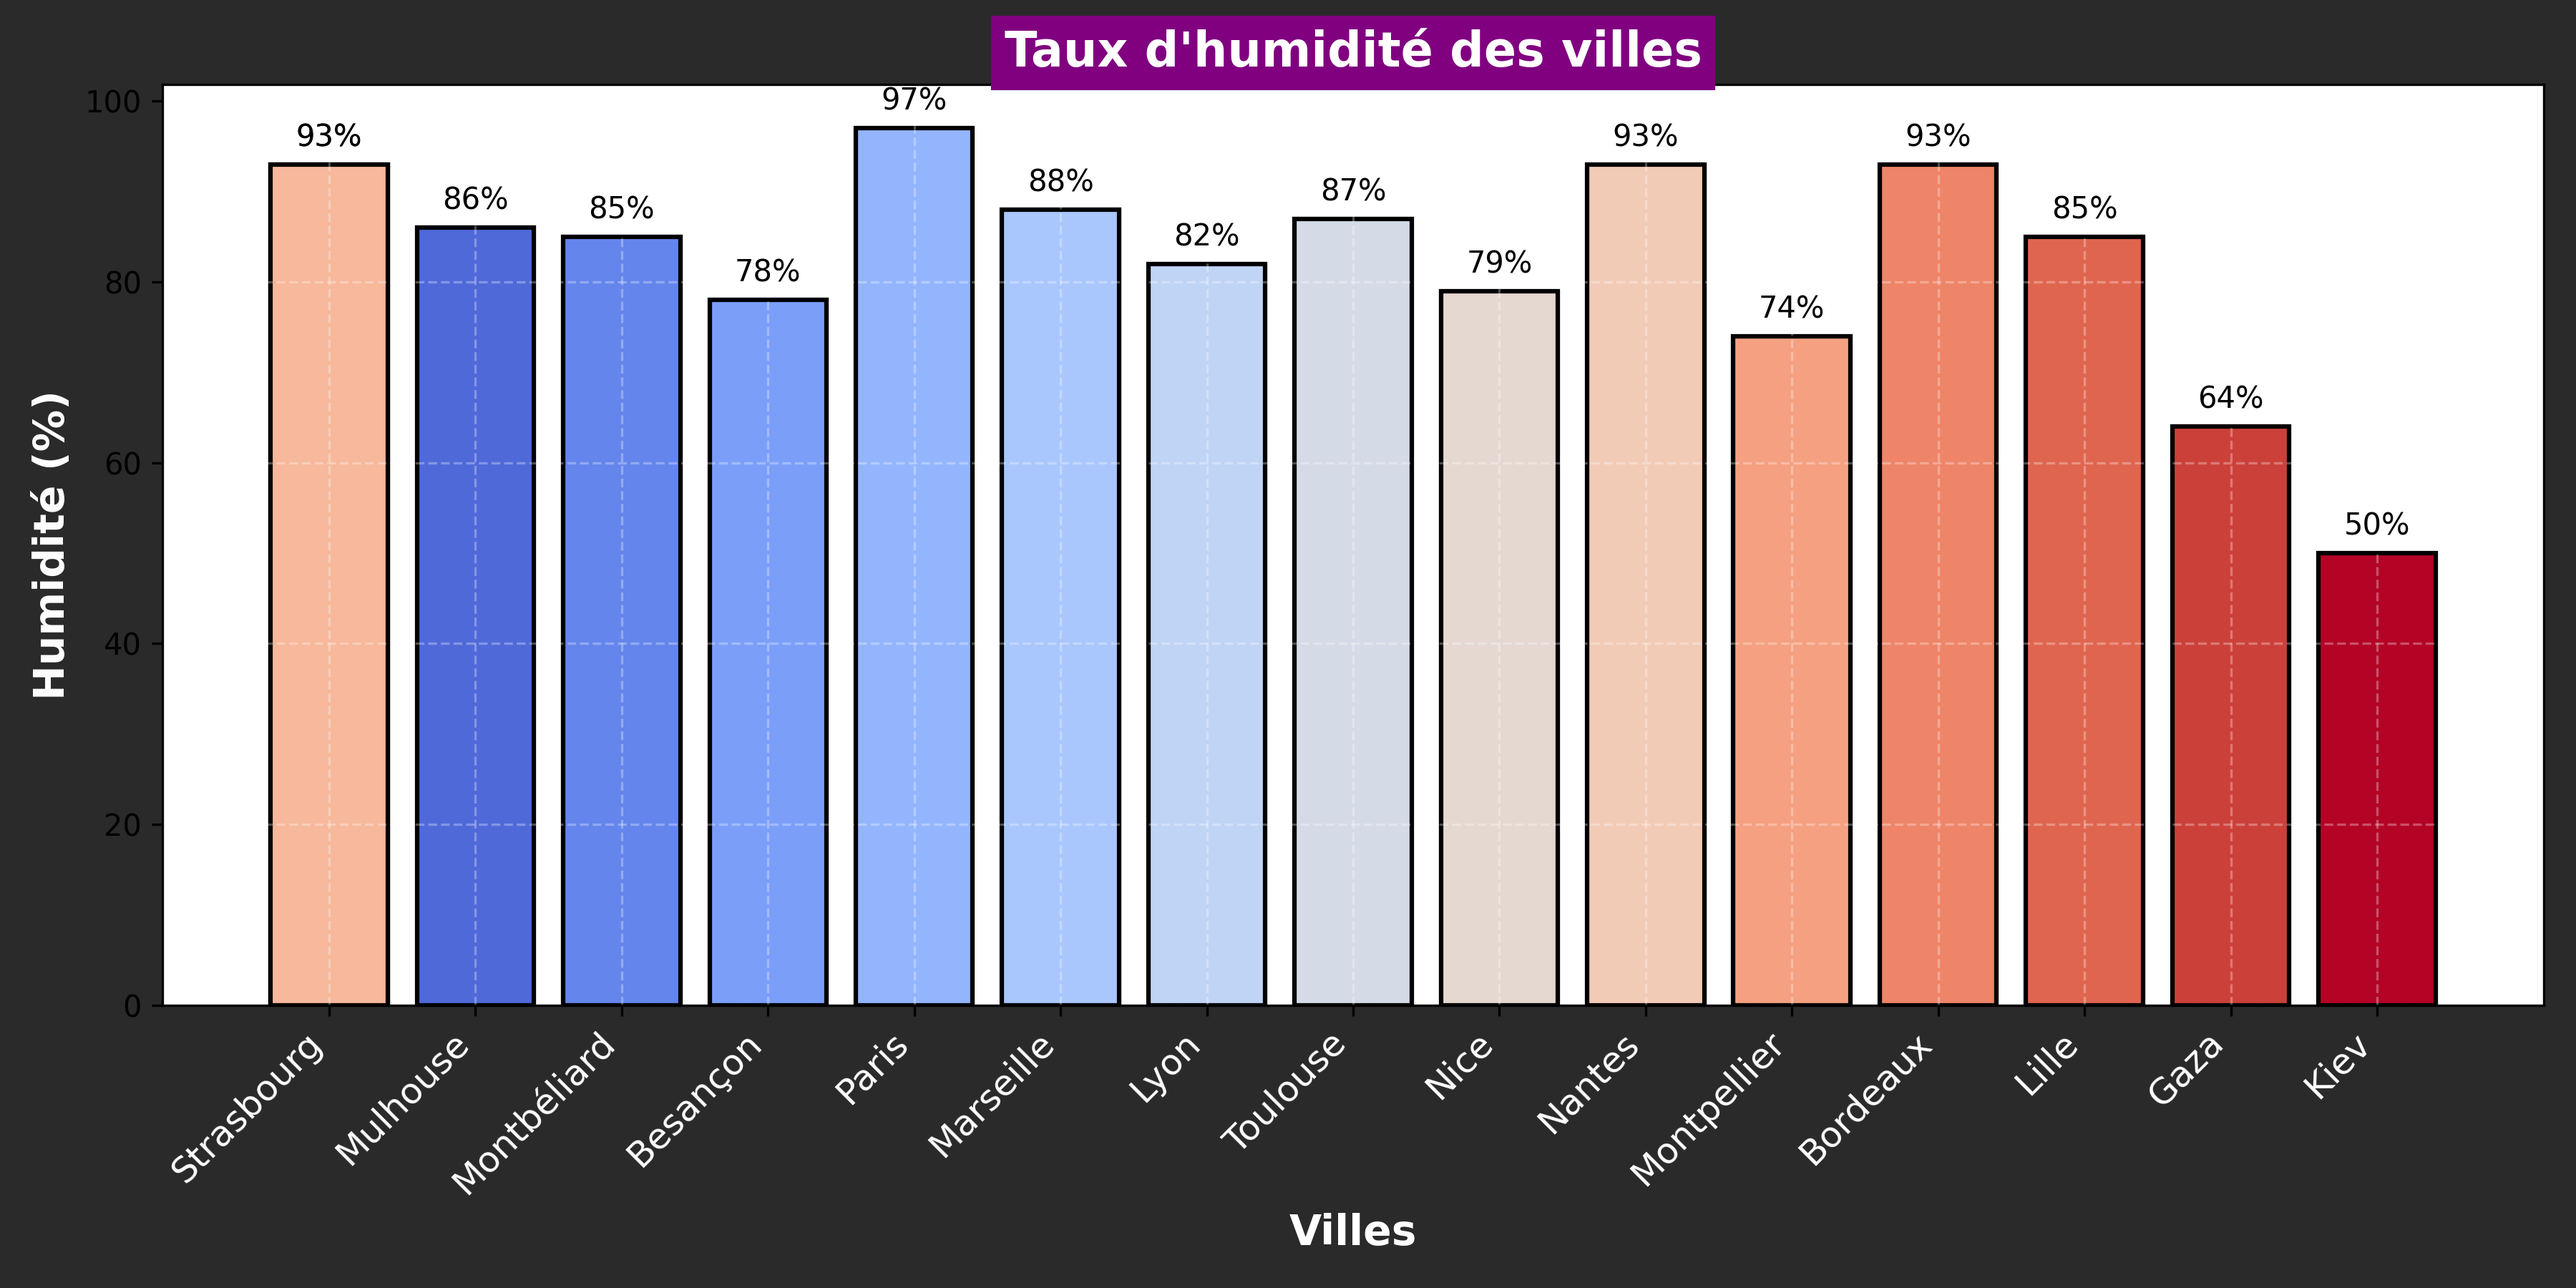
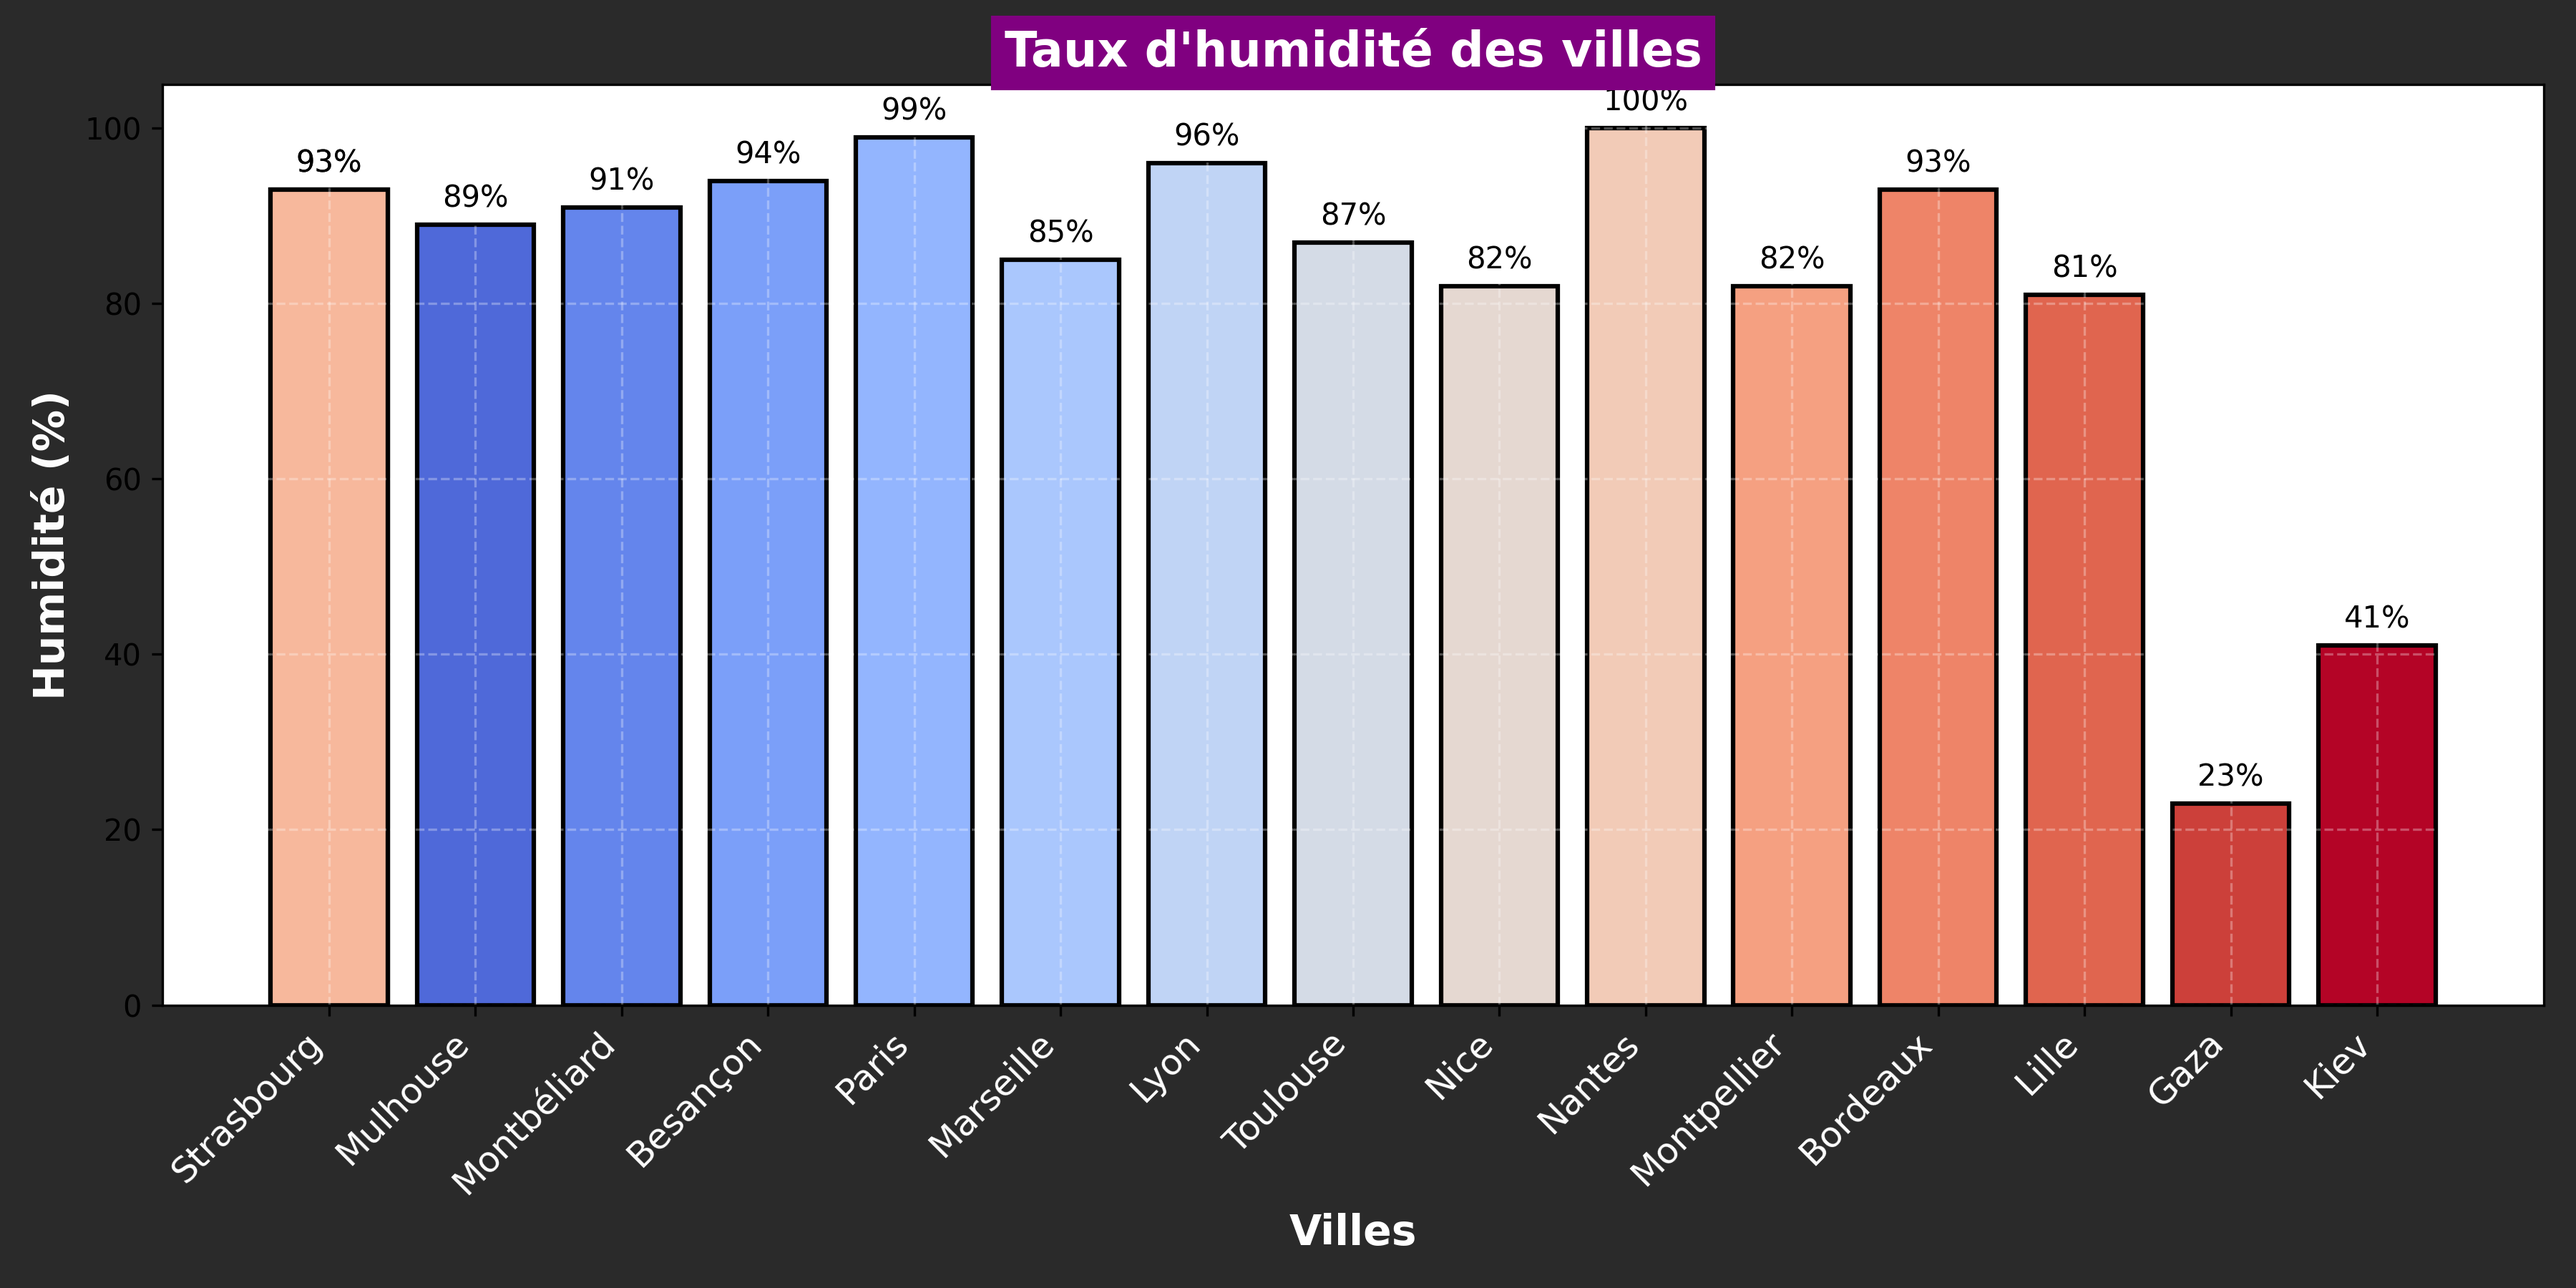
Mise à jour de la météo et ajout du graphique d'humidité

diff --git a/README.md b/README.md
@@ -24,103 +24,103 @@ Ce repo contient plusieurs workflows GitHub Actions :
 ## Météo actuelle :
 ## Météo des grandes villes + Gaza et Kiev 🌍
 
-🕒 Mise à jour : 21/04/2025 08:17:09
+🕒 Mise à jour : 22/04/2025 08:17:04
 
-### 🌍 Strasbourg 🌧
-**Conditions :** pluie modérée
-**Température :** 8.08°C
+### 🌍 Strasbourg 🌥
+**Conditions :** nuageux
+**Température :** 10.98°C
 **Humidité :** 93%
 **Vent :** 0 m/s
 
-### 🌍 Mulhouse 🌧
-**Conditions :** pluie modérée
-**Température :** 9.2°C
-**Humidité :** 86%
-**Vent :** 4.63 m/s
+### 🌍 Mulhouse 🌥
+**Conditions :** couvert
+**Température :** 9.64°C
+**Humidité :** 89%
+**Vent :** 2.06 m/s
 
-### 🌍 Montbéliard 🌧
-**Conditions :** légère pluie
-**Température :** 11.1°C
-**Humidité :** 85%
-**Vent :** 0.18 m/s
+### 🌍 Montbéliard 🌥
+**Conditions :** nuageux
+**Température :** 9.7°C
+**Humidité :** 91%
+**Vent :** 0.3 m/s
 
 ### 🌍 Besançon 🌥
-**Conditions :** couvert
-**Température :** 9.63°C
-**Humidité :** 78%
-**Vent :** 4.06 m/s
+**Conditions :** nuageux
+**Température :** 8.28°C
+**Humidité :** 94%
+**Vent :** 0.71 m/s
 
-### 🌍 Paris 🌥
-**Conditions :** bruine légère
-**Température :** 9.89°C
-**Humidité :** 97%
-**Vent :** 1.03 m/s
+### 🌍 Paris ☀
+**Conditions :** ciel dégagé
+**Température :** 9.56°C
+**Humidité :** 99%
+**Vent :** 1.54 m/s
 
 ### 🌍 Marseille 🌥
-**Conditions :** nuageux
-**Température :** 8.62°C
-**Humidité :** 88%
-**Vent :** 1.5 m/s
+**Conditions :** couvert
+**Température :** 10.29°C
+**Humidité :** 85%
+**Vent :** 2.33 m/s
 
-### 🌍 Lyon 🌧
-**Conditions :** pluie modérée
-**Température :** 8.45°C
-**Humidité :** 82%
-**Vent :** 0.45 m/s
+### 🌍 Lyon 🌥
+**Conditions :** couvert
+**Température :** 7.07°C
+**Humidité :** 96%
+**Vent :** 0.87 m/s
 
-### 🌍 Toulouse ☀
-**Conditions :** ciel dégagé
-**Température :** 10.99°C
+### 🌍 Toulouse 🌥
+**Conditions :** couvert
+**Température :** 11.99°C
 **Humidité :** 87%
-**Vent :** 5.14 m/s
+**Vent :** 4.12 m/s
 
 ### 🌍 Nice 🌥
-**Conditions :** couvert
-**Température :** 7.5°C
-**Humidité :** 79%
-**Vent :** 1.39 m/s
+**Conditions :** nuageux
+**Température :** 2.86°C
+**Humidité :** 82%
+**Vent :** 1.35 m/s
 
-### 🌍 Nantes 🌥
-**Conditions :** couvert
-**Température :** 10.96°C
-**Humidité :** 93%
-**Vent :** 3.09 m/s
+### 🌍 Nantes ☀
+**Conditions :** ciel dégagé
+**Température :** 8.96°C
+**Humidité :** 100%
+**Vent :** 1.03 m/s
 
-### 🌍 Strasbourg 🌧
-**Conditions :** pluie modérée
-**Température :** 8.08°C
+### 🌍 Strasbourg 🌥
+**Conditions :** nuageux
+**Température :** 10.98°C
 **Humidité :** 93%
 **Vent :** 0 m/s
 
 ### 🌍 Montpellier ☀
 **Conditions :** ciel dégagé
-**Température :** 13.61°C
-**Humidité :** 74%
-**Vent :** 2.57 m/s
+**Température :** 10.28°C
+**Humidité :** 82%
+**Vent :** 1.54 m/s
 
-### 🌍 Bordeaux 🌥
-**Conditions :** nuageux
+### 🌍 Bordeaux 🌧
+**Conditions :** légère pluie
 **Température :** 10.15°C
 **Humidité :** 93%
-**Vent :** 3.09 m/s
+**Vent :** 1.54 m/s
 
 ### 🌍 Lille 🌫
 **Conditions :** brume
-**Température :** 7.58°C
-**Humidité :** 85%
+**Température :** 9.05°C
+**Humidité :** 81%
 **Vent :** 1.54 m/s
 
-### 🌍 Gaza ☀
-**Conditions :** ciel dégagé
-**Température :** 18.95°C
-**Humidité :** 64%
-**Vent :** 1.01 m/s
+### 🌍 Gaza 🌥
+**Conditions :** nuageux
+**Température :** 30.64°C
+**Humidité :** 23%
+**Vent :** 6.22 m/s
 
 ### 🌍 Kiev ☀
 **Conditions :** ciel dégagé
-**Température :** 18.73°C
-**Humidité :** 50%
-**Vent :** 0.45 m/s
+**Température :** 19.78°C
+**Humidité :** 41%
+**Vent :** 2.31 m/s
 
 <p align='center'><img src='https://raw.githubusercontent.com/khoa083/khoa/main/Khoa_ne/img/Rainbow.gif' width='100%' style='border-radius: 5px; border: 3px solid #39FF14; box-shadow: 0 0 10px #39FF14, 0 0 20px #39FF14;' /></p>
 
